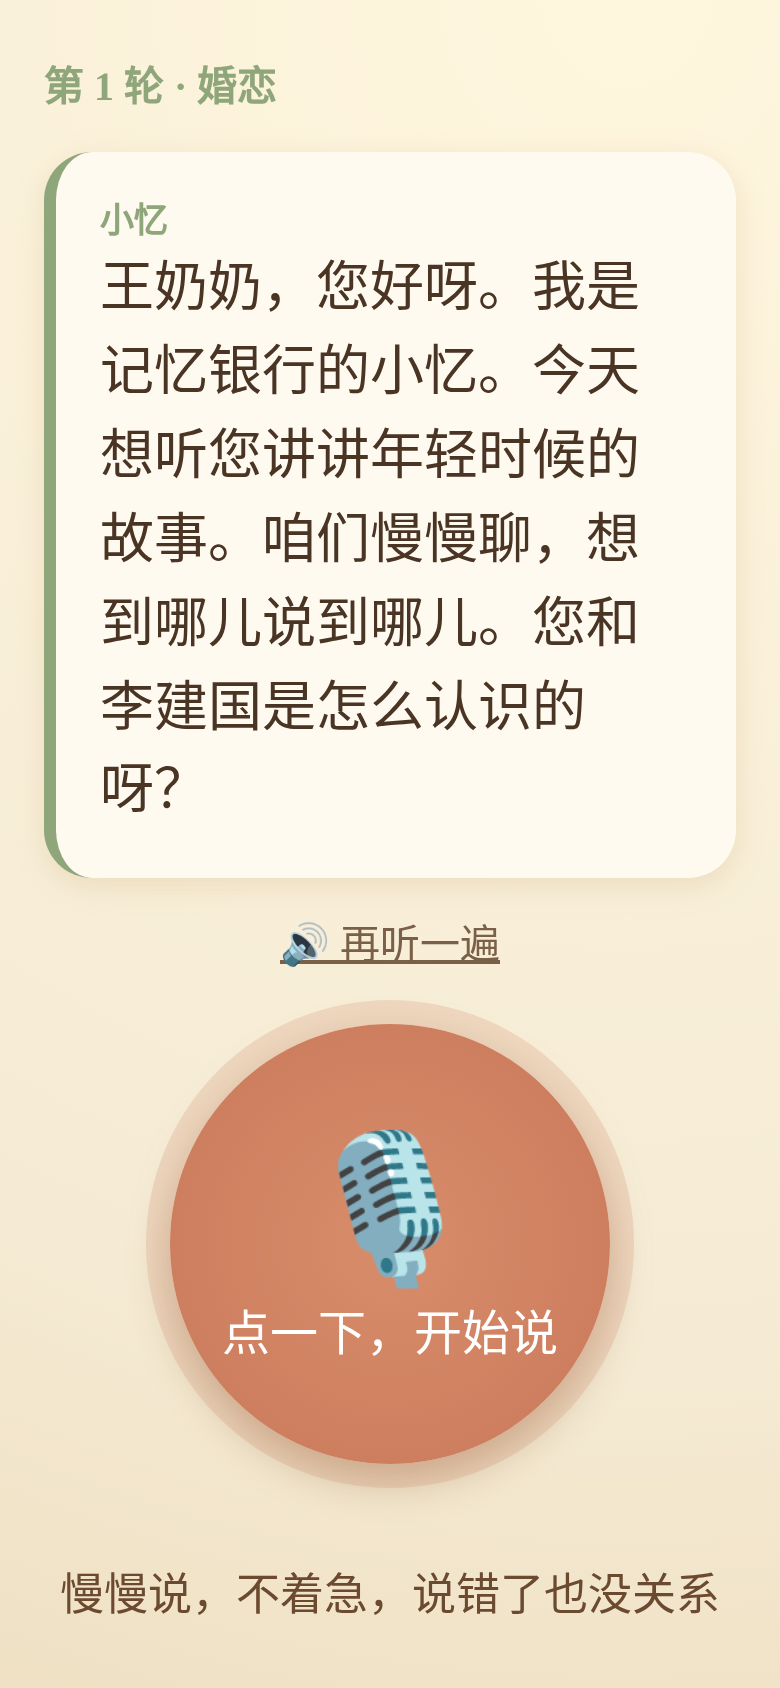
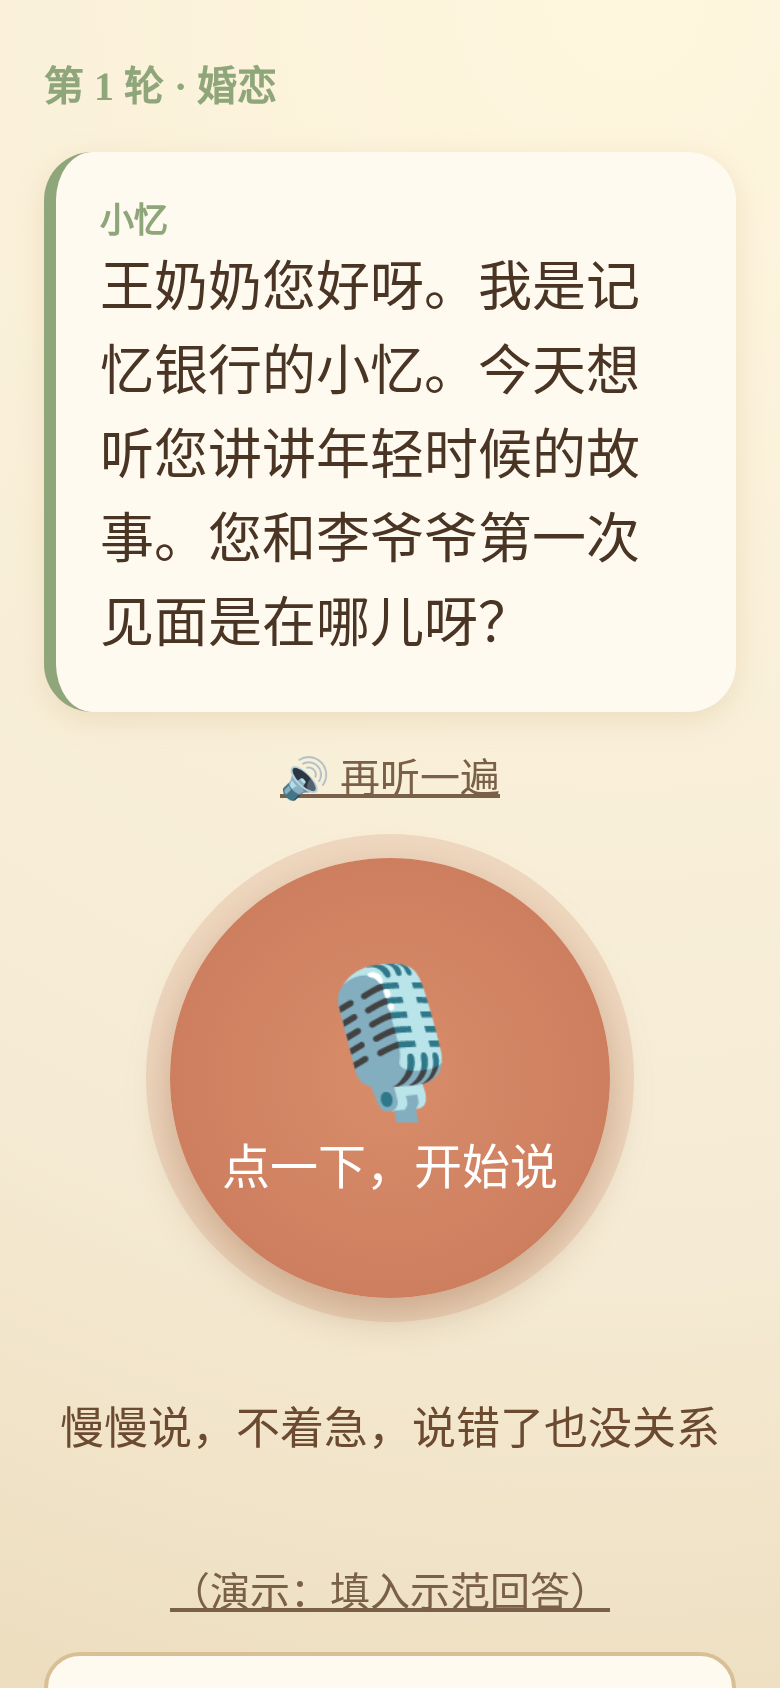
v2: 后端+Gemini 转写/实时访谈/记忆档案/接续开场

Changed region(s): [[0.0308, 0.154, 0.9538, 0.8934], [0.0615, 0.9242, 0.9538, 1.0]]

diff --git a/tasks.md b/tasks.md
@@ -5,6 +5,13 @@
 - [x] 访谈问题库与 AI 主持人话术（docs/interview.md 初稿）
 - [x] 手机网页 demo（10-24，app/：建档→选阶段→语音访谈→记忆故事→记忆库，已接入 docs/interview.md；截图 app/screenshots/）
 - [ ] 技术选型（语音识别、语音合成、大模型）——demo 暂用浏览器 speechSynthesis + Web Speech API + MediaRecorder；generateStory 已预留 OpenAI 兼容接口，待定模型与 key
-- [ ] 真机（安卓 Chrome）走查 + 配置大模型 key 联调
+- [x] Gemini 连通实测（Vertex express，见 app/gemini-test.md）
+- [x] v2 后端：Node + SQLite(sql.js) + 本地音频，Vite 代理 /api（10-24）
+- [x] v2 Gemini 听音频转写+整理，替换 Web Speech API（离线兜底仍可用）
+- [x] v2 引导式访谈 Agent（interview.md 主持人提示词全文 + 记忆档案 + 对话历史，逐轮生成）
+- [x] v2 按老人账户存储：档案/访谈(原声+逐句原始+整理)/故事/记忆档案（访谈后自动更新）
+- [x] v2 第二次访谈接着上次话题开场；故事生成走后端 Gemini；示范回答 + 无网/失败兜底保留
+- [ ] 真机（安卓 Chrome）走查：真实人声转写质量、延迟
+- [ ] 降低实时轮次延迟（3.8-flash 常超 8s 被回退）/ 申请配额（3.5-flash 出现 429）
 - [ ] 开发 demo 并找 1-2 位老人试用
 - [ ] 决策：国内语音识别方案、路演设备、大模型 key 放后端代理

diff --git a/app/gemini-test.md b/app/gemini-test.md
@@ -52,6 +52,6 @@ AI Studio 接口（generativelanguage.googleapis.com）对该 key 403，**不再
 | 语音转写整理 + 实时访谈 | gemini-3.8-flash → gemini-3.5-flash → gemini-3-flash-preview | `GEMINI_MODEL_FAST`、`GEMINI_MODEL_FAST_FALLBACKS`（逗号分隔） | 3.8-flash 200，但延迟波动大：6.5 s / 7.3 s / 26 s（首次） |
 | 记忆故事 + 记忆档案更新 | gemini-3.1-pro-preview → gemini-3-flash-preview | `GEMINI_MODEL_PRO`、`GEMINI_MODEL_PRO_FALLBACKS` | 200，约 5.5 s |
 
-- 为保证现场流畅，实时链每个模型 12 s 超时（`GEMINI_FAST_TIMEOUT_MS`），超时或报错就换下一个；pro 链 60 s。
+- 为保证现场流畅，实时链每个模型 8 s 超时（`GEMINI_FAST_TIMEOUT_MS`），超时或报错就换下一个；pro 链 60 s。
 - 截图实跑时 3.5-flash 出现过 429 RESOURCE_EXHAUSTED，自动回退成功。
 - 已知风险：fake 麦克风的蜂鸣音偶尔被听写出“嗯，那会儿”一类短句（prompt 已要求无人声返回空、temperature=0，大部分情况返回空）。

diff --git a/docs/decisions.md b/docs/decisions.md
@@ -7,3 +7,4 @@
 - 2026-10-24：大模型与语音识别统一用 Google Gemini（Tammy 提供 key，存于 app/.env.local，仅后端读取）。用多模态直接处理音频。
 - 2026-10-24：模型实测：Gemini 4 系列均不可用；可用 gemini-3.5-flash（实时对话/语音整理）、gemini-3.1-pro-preview（故事与记忆档案）、gemini-3-flash-preview（兜底），走 Vertex express 接口。
 - 2026-10-24：gemini-3.8-flash 实测可用，改为实时对话/语音整理主模型（回退 3.5-flash → 3-flash-preview）。
+- 2026-10-24：代码托管到 GitHub 私有仓库 RookieRunboy/memory-bank（.env* 已忽略）。
